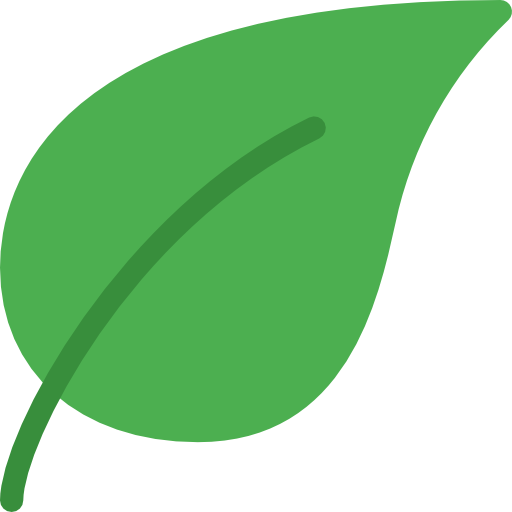
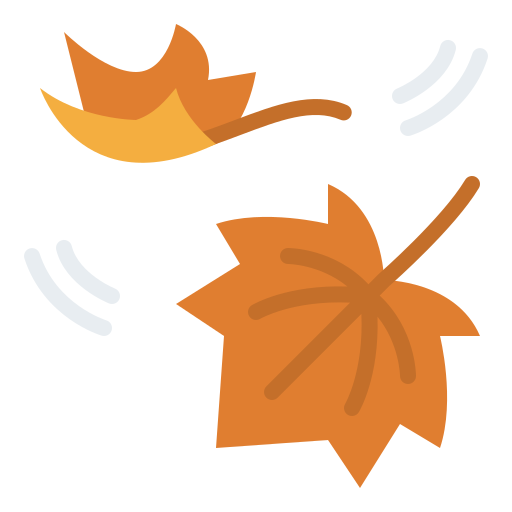
editing falling leaf effect

diff --git a/posts.html b/posts.html
@@ -24,15 +24,16 @@
     <section class="posts-main-section">
       <div class="main-page-headings">
         <h1>Posts Shelf</h1>
-        <div class="falling-leaf left-side">
-          <img class="leaf-1" src="images/animation/leaf-1.png" alt="leaf" />
-          <img class="leaf-2" src="images/animation/leaf-1.png" alt="leaf" />
         </div>
+      <div class="falling-leaf left-side">
+        <img class="leaf-1" src="images/animation/leaf-1.png" alt="leaf" />
+        <img class="leaf-2" src="images/animation/leaf-2.png" alt="leaf" />
+      </div>
 
-        <div class="falling-leaf right-side">
-          <img class="leaf-1" src="images/animation/leaf-1.png" alt="leaf" />
-          <img class="leaf-2" src="images/animation/leaf-1.png" alt="leaf" />
-        </div>
+      <div class="falling-leaf right-side">
+        <img class="leaf-1" src="images/animation/leaf-1.png" alt="leaf" />
+        <img class="leaf-2" src="images/animation/leaf-2.png" alt="leaf" />
+      </div>
 
         <main class="post-overview">
           <div class="post-preview">

diff --git a/trash-bin.html b/trash-bin.html
@@ -22,14 +22,15 @@
     </header>
     <div class="trash-bin-page">
       <div class="main-page-headings"><h1>Trash Bin</h1></div>
+      </div>
       <div class="falling-leaf left-side">
         <img class="leaf-1" src="images/animation/leaf-1.png" alt="leaf" />
-        <img class="leaf-2" src="images/animation/leaf-1.png" alt="leaf" />
+        <img class="leaf-2" src="images/animation/leaf-2.png" alt="leaf" />
       </div>
 
       <div class="falling-leaf right-side">
         <img class="leaf-1" src="images/animation/leaf-1.png" alt="leaf" />
-        <img class="leaf-2" src="images/animation/leaf-1.png" alt="leaf" />
+        <img class="leaf-2" src="images/animation/leaf-2.png" alt="leaf" />
       </div>
       <main class="trash-bin">
         <p>

diff --git a/my-setup.html b/my-setup.html
@@ -79,14 +79,15 @@
           </ul>
         </div>
       </aside>
+      </div>
       <div class="falling-leaf left-side">
         <img class="leaf-1" src="images/animation/leaf-1.png" alt="leaf" />
-        <img class="leaf-2" src="images/animation/leaf-1.png" alt="leaf" />
+        <img class="leaf-2" src="images/animation/leaf-2.png" alt="leaf" />
       </div>
 
       <div class="falling-leaf right-side">
         <img class="leaf-1" src="images/animation/leaf-1.png" alt="leaf" />
-        <img class="leaf-2" src="images/animation/leaf-1.png" alt="leaf" />
+        <img class="leaf-2" src="images/animation/leaf-2.png" alt="leaf" />
       </div>
 
       <main class="my-setup">

diff --git a/privacy.html b/privacy.html
@@ -79,14 +79,15 @@
           </ul>
         </div>
       </aside>
+      </div>
       <div class="falling-leaf left-side">
         <img class="leaf-1" src="images/animation/leaf-1.png" alt="leaf" />
-        <img class="leaf-2" src="images/animation/leaf-1.png" alt="leaf" />
+        <img class="leaf-2" src="images/animation/leaf-2.png" alt="leaf" />
       </div>
 
       <div class="falling-leaf right-side">
         <img class="leaf-1" src="images/animation/leaf-1.png" alt="leaf" />
-        <img class="leaf-2" src="images/animation/leaf-1.png" alt="leaf" />
+        <img class="leaf-2" src="images/animation/leaf-2.png" alt="leaf" />
       </div>
 
       <main class="privacy">

diff --git a/about.html b/about.html
@@ -79,14 +79,15 @@
           </ul>
         </div>
       </aside>
+      </div>
       <div class="falling-leaf left-side">
         <img class="leaf-1" src="images/animation/leaf-1.png" alt="leaf" />
-        <img class="leaf-2" src="images/animation/leaf-1.png" alt="leaf" />
+        <img class="leaf-2" src="images/animation/leaf-2.png" alt="leaf" />
       </div>
 
       <div class="falling-leaf right-side">
         <img class="leaf-1" src="images/animation/leaf-1.png" alt="leaf" />
-        <img class="leaf-2" src="images/animation/leaf-1.png" alt="leaf" />
+        <img class="leaf-2" src="images/animation/leaf-2.png" alt="leaf" />
       </div>
 
       <main class="about">

diff --git a/posts/fingerprinting.html b/posts/fingerprinting.html
@@ -84,12 +84,12 @@
       </aside>
       <div class="falling-leaf left-side">
         <img class="leaf-1" src="../images/animation/leaf-1.png" alt="leaf" />
-        <img class="leaf-2" src="../images/animation/leaf-1.png" alt="leaf" />
+        <img class="leaf-2" src="../images/animation/leaf-2.png" alt="leaf" />
       </div>
 
       <div class="falling-leaf right-side">
         <img class="leaf-1" src="../images/animation/leaf-1.png" alt="leaf" />
-        <img class="leaf-2" src="../images/animation/leaf-1.png" alt="leaf" />
+        <img class="leaf-2" src="../images/animation/leaf-2.png" alt="leaf" />
       </div>
       <main class="posts">
         <article>

diff --git a/posts/firefox-addons.html b/posts/firefox-addons.html
@@ -84,12 +84,12 @@
       </aside>
       <div class="falling-leaf left-side">
         <img class="leaf-1" src="../images/animation/leaf-1.png" alt="leaf" />
-        <img class="leaf-2" src="../images/animation/leaf-1.png" alt="leaf" />
+        <img class="leaf-2" src="../images/animation/leaf-2.png" alt="leaf" />
       </div>
 
       <div class="falling-leaf right-side">
         <img class="leaf-1" src="../images/animation/leaf-1.png" alt="leaf" />
-        <img class="leaf-2" src="../images/animation/leaf-1.png" alt="leaf" />
+        <img class="leaf-2" src="../images/animation/leaf-2.png" alt="leaf" />
       </div>
       <main class="posts">
         <article>

diff --git a/posts/firefox-browser-review.html b/posts/firefox-browser-review.html
@@ -84,12 +84,12 @@
       </aside>
       <div class="falling-leaf left-side">
         <img class="leaf-1" src="../images/animation/leaf-1.png" alt="leaf" />
-        <img class="leaf-2" src="../images/animation/leaf-1.png" alt="leaf" />
+        <img class="leaf-2" src="../images/animation/leaf-2.png" alt="leaf" />
       </div>
 
       <div class="falling-leaf right-side">
         <img class="leaf-1" src="../images/animation/leaf-1.png" alt="leaf" />
-        <img class="leaf-2" src="../images/animation/leaf-1.png" alt="leaf" />
+        <img class="leaf-2" src="../images/animation/leaf-2.png" alt="leaf" />
       </div>
       <main class="posts">
         <article>

diff --git a/posts/google-chrome-case-study.html b/posts/google-chrome-case-study.html
@@ -85,12 +85,12 @@
       </aside>
       <div class="falling-leaf left-side">
         <img class="leaf-1" src="../images/animation/leaf-1.png" alt="leaf" />
-        <img class="leaf-2" src="../images/animation/leaf-1.png" alt="leaf" />
+        <img class="leaf-2" src="../images/animation/leaf-2.png" alt="leaf" />
       </div>
 
       <div class="falling-leaf right-side">
         <img class="leaf-1" src="../images/animation/leaf-1.png" alt="leaf" />
-        <img class="leaf-2" src="../images/animation/leaf-1.png" alt="leaf" />
+        <img class="leaf-2" src="../images/animation/leaf-2.png" alt="leaf" />
       </div>
       <main class="posts">
         <article>

diff --git a/posts/location-tracking.html b/posts/location-tracking.html
@@ -84,12 +84,12 @@
       </aside>
       <div class="falling-leaf left-side">
         <img class="leaf-1" src="../images/animation/leaf-1.png" alt="leaf" />
-        <img class="leaf-2" src="../images/animation/leaf-1.png" alt="leaf" />
+        <img class="leaf-2" src="../images/animation/leaf-2.png" alt="leaf" />
       </div>
 
       <div class="falling-leaf right-side">
         <img class="leaf-1" src="../images/animation/leaf-1.png" alt="leaf" />
-        <img class="leaf-2" src="../images/animation/leaf-1.png" alt="leaf" />
+        <img class="leaf-2" src="../images/animation/leaf-2.png" alt="leaf" />
       </div>
       <main class="posts">
         <article>

diff --git a/posts/meta-privacy.html b/posts/meta-privacy.html
@@ -84,12 +84,12 @@
       </aside>
       <div class="falling-leaf left-side">
         <img class="leaf-1" src="../images/animation/leaf-1.png" alt="leaf" />
-        <img class="leaf-2" src="../images/animation/leaf-1.png" alt="leaf" />
+        <img class="leaf-2" src="../images/animation/leaf-2.png" alt="leaf" />
       </div>
 
       <div class="falling-leaf right-side">
         <img class="leaf-1" src="../images/animation/leaf-1.png" alt="leaf" />
-        <img class="leaf-2" src="../images/animation/leaf-1.png" alt="leaf" />
+        <img class="leaf-2" src="../images/animation/leaf-2.png" alt="leaf" />
       </div>
       <main class="posts">
         <article>

diff --git a/posts/online-tracking-methods.html b/posts/online-tracking-methods.html
@@ -84,12 +84,12 @@
       </aside>
       <div class="falling-leaf left-side">
         <img class="leaf-1" src="../images/animation/leaf-1.png" alt="leaf" />
-        <img class="leaf-2" src="../images/animation/leaf-1.png" alt="leaf" />
+        <img class="leaf-2" src="../images/animation/leaf-2.png" alt="leaf" />
       </div>
 
       <div class="falling-leaf right-side">
         <img class="leaf-1" src="../images/animation/leaf-1.png" alt="leaf" />
-        <img class="leaf-2" src="../images/animation/leaf-1.png" alt="leaf" />
+        <img class="leaf-2" src="../images/animation/leaf-2.png" alt="leaf" />
       </div>
       <main class="posts">
         <article>
